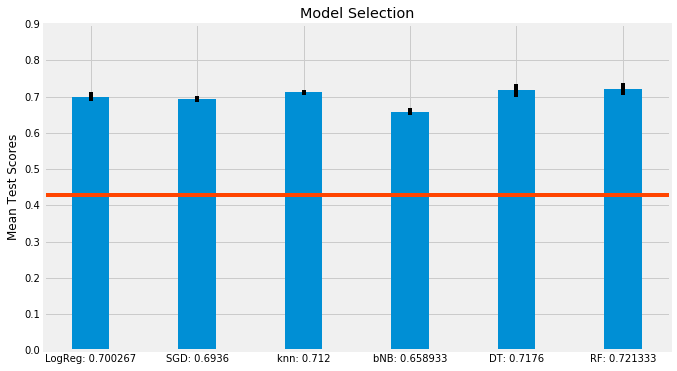
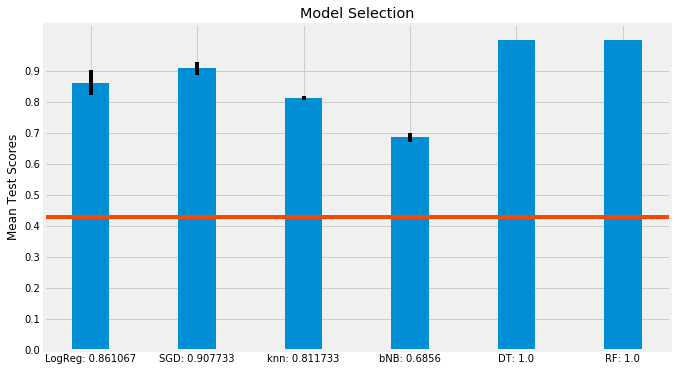
Complete first full draft of Reddit

diff --git a/_posts/2018-06-05-Reddit-Hot-Posts.md b/_posts/2018-06-05-Reddit-Hot-Posts.md
@@ -18,7 +18,7 @@ This was my first project wherein I had to gather my own data (as opposed to dow
 
 With any Reddit post, there are upwards of 85 identifying features, and while I did pull all 85 of those features for each of my 5,000 posts, I decided to limit the features that I built into my dataframe to those I thought would be most predictive of popularity.  I pared the 85 features down to 14 and stored them in variables.  The features I chose to use in my model were: 'author', 'title', 'subreddit', 'subreddit_subscribers', 'score', 'ups', 'downs', 'num_comments', 'num_crossposts', 'selftext', 'pinned', 'stickied', 'wls', 'created_utc.'  If a post had actual original text, it was stored in the 'selftext' feature, however, when I began to explore my dataset in more depth, I learned that many Reddit posts don't actually have original content, but rather, are links to a previous post.
 
-![heidi.jpg](/static/img/heidi.jpg)
+<!-- ![heidi.jpg](/static/img/heidi.jpg) -->
 
 With my dataframe finally built out, I was able to start exploring the posts I pulled.  My un-engineed dataset began with 5000 rows and 17 columns.  When I grouped by 'subreddit', I identified 1950 unique subreddits within my dataset.  While it would be too much to name every single subreddit in this blog post, a few of my favorites were: 'todayilearned', 'mildlyinteresting', and 'Showerthoughts.'
 
@@ -36,61 +36,15 @@ The comments column, however, was the column I was most interested in, since it 
 
 I then created a bag of words of all of the words from the 'Title' feature using a for-loop running across the rows in the 'Title feature'.  In total, there were 10,445 unique words not including common 'stop' words such as 'the', 'a', & 'and.'  I was able to exclude these common 'stop' words using the 'stop_words' arg in my CountVectorizer, specifying 'english' as my language.
 
-<!-- | Word | Count |
-|:--------|:-------:|
-| new     | 149   |
-|----
-| just    | 148   |
-|----
-| like    | 119   |
-|----
-| time    | 87    |
-|----
-|day      | 82
-|----
-| oc      | 72
-|----
-| people  | 70
-|----
-| today   | 70
-|----
-| don     | 69
-|----
-| years   | 69
-|----
-|got      | 69
-|----
-| post    | 61
-|----
-| happy   | 60
-|----
-| old     | 58
-|----
-| year    | 58
-|----
-| trump   | 57
-|----
-| best    | 57
-|----
-| little  | 56
-|----
-| ve      | 56
-|----
-| think   | 52
-|=====
-{: rules="groups"} -->
+After performing a train-test-split, I then vectorized the top 20 most common 'Title' words into a sparse dataframe, which I then concatenated onto my X_train and X_test matrices with the hope that more information would improve my model performance.  After standardizing my dataset with Standard Scaler, I was ready to run my models.
 
-I then took those top 20 words and dummified them into columns of their own in my dataframe in the hope that it would improve my model performance.  After standardizing my dataset with Standard Scaler and conducting a train-test split, I was ready to run some models.
-
-<!-- ![popular.gif](/static/img/popular.gif) -->
-
-I gridsearched over six different models, including a LogisticRegression, an SGDClassifier, a KNeighborsClassifier, a BernoulliNB, a DecisionTreeClassifier, and a RandomForestClassifier.  They all performed more or less the same, with R2 scores in the high .60s and low.  Among the six models, the Random Forest model performed the best.  While I had hoped that these training scores had been higher, all of the models I ran beat the baseline accuracy score of 0.42779.  I summarized the results of the models into a summary bar plot, with the bold lines at the top of each bar representing the standard deviation of each cross validation run.  The red horizontal line represents the baseline accuracy score.
+In total, I gridsearched over six different models, including a LogisticRegression, an SGDClassifier, a KNeighborsClassifier, a BernoulliNB, a DecisionTreeClassifier, and a RandomForestClassifier.  While I remain skeptical of the perfect test scores for the Decision Tree and Random Forest Classifiers, the R2 scores of the other four models seem to make sense.  I summarized the results of the models into a summary bar plot, with the bold lines at the top of each bar representing the mean standard deviation of the cross validation runs.  The red horizontal line represents the baseline accuracy score of 0.42779.
 
 ![reddit-models.png](/static/img/reddit-models.png)
 
-NOTE: Talk here about features/coeffs - what actually contributed the most to the prediction??
+Having fit and scored my models, I chose the Random Forest Classifier to run feature importances on to understand which of my 32 features were most predictive of 'hot' posts.  Unsurprisingly, 'num_comments' was the most predictive feature with a coefficient of 0.761.  The next most predictive columns did not have nearly the same predictive power as num_comments, with 'score', 'ups', and 'subreddit_subscribers' as the next most predictive with coefficients of 0.0863, 0.0725, and 0.0247, respectively.
 
-## Rumor has it
+## Gossip Folks
 
 With modeling done, I wanted to continue exploring the text in my posts to see what, if any, themes rose to the top.  Because I had already done a CountVectorizer on the titles of my posts, I wanted to try another natural language processing technique to help me better understand my data.  So, I subset my data to 'hot' posts only (posts with 16 or more comments) and ran a for-loop across those rows to create another bag of words - this time, filled with words that were linked to 'hot' posts.  I did the same thing again to my 'super hot' posts.  With these two bags of words, I then used a word cloud on the data set to visually inspect any themes.  The images below represent the results of this analysis.  Given that one of the most common words in the 'super hot' bag of words was 'need', I suspect that more than a few people on Reddit are giving some (unsolicited) advice.
 
@@ -98,12 +52,35 @@ With modeling done, I wanted to continue exploring the text in my posts to see w
 - | -
 ![hot-posts.png](/static/img/hot-posts.png) | ![super-hot.png](/static/img/super-hot.png)
 
-Talk here about creating a filter to identify the top 50 posts based on the number of comments.  Then used PRAW to pull the top comment for all 50 and ran sentiment analysis on each of the 50 comments.
+Having analyzed the text of the posts, I then wanted to further explore Reddit's data by pulling the comments associated with my top 50 most commented on posts.  First, I created a mask for which I sorted the value counts of the 'num_comments' feature with 'ascending' set to False.  I then sliced on the first fifty rows.
 
-Talk about using vader sentiment.
+With my top fifty most commented on posts in hand, I was ready to pull their associated comments.  Because this was my first time using PRAW, I had to sign up for a developer's account.  With this account, I was given a user-id, an API key and a secret key which allowed me to use PRAW.  
+
+I wanted to pull the associated top comments so I could run a sentiment analysis on the comment's text and see which posts received positive comments and which received negative comments.  To parse out sentiment, I installed nltk's [Vader Sentiment Analyzer](https://github.com/cjhutto/vaderSentiment) package.
+
+To calculate the 'sentiment intensity' of each comment, I ran a for-loop across each of my fifty rows and stored the scores in a list.  Vader produces four scores when performing its analysis: negative, neutral, positive, and compound.  The negative, positive, and neutral scores are all bound between 0 and 1, whereas the compound score is bound between -1 and 1, to effectively give an overall score.  To illustrate the range of scores my comments received, I plotted them out in Plotly.  The x axis represents the negative score, the y axis, the positive score, and the color shading represents the overall compound score - compound scores that were more positive were closer to the blue spectrum and compound scores that were overall more negative were hued closer to the red spectrum.  This explains why one of the data points is blue despite having greater than a 0 score on the negative x axis.
+
+<div>
+    <a href="https://plot.ly/~jesster413/875/?share_key=EhaoM19zpKFqUcZ1pguqhr" target="_blank" title="plot from API (15)" style="display: block; text-align: center;"><img src="https://plot.ly/~jesster413/875.png?share_key=EhaoM19zpKFqUcZ1pguqhr" alt="plot from API (15)" style="max-width: 100%;width: 600px;"  width="600" onerror="this.onerror=null;this.src='https://plot.ly/404.png';" /></a>
+    <script data-plotly="jesster413:875" sharekey-plotly="EhaoM19zpKFqUcZ1pguqhr" src="https://plot.ly/embed.js" async></script>
+</div>
+
+While I initially thought that having only positive comments was ideal for posts, after reading through some of the comments and their corresponding scores, I realized that everything but super negative scores is *usually* fine.  I then joined my compound_scores dataframe with my comments_scores dataframe to more easily visualize which scores lined up with which comments and sliced on individual subreddits to identify which categories would be the least inflammatory and best received for someone interested in pitching an article to Reddit.
+
+Finally, I wanted to try to create my own machine learning sentences using a Markov chain generator.  In another post, I walk through more in depth what Markov chain's are and how they work, but for this project, I installed the [markovify](https://pypi.org/project/markovify/) package from PyPi and applied it to my 'hot' bag of words.  Using a very simple for-loop and limiting my range to one sentence, I used the 'beginning' arg of the 'make_sentence_with_start function to create one-liner sentences starting with words I specified.  The following is the output of that code.
+
+```
+Women need to give me pity cash.
+
+I will be replaced, and unfortunately, i don't think Ameer will be stickying this for four days.
+
+I can't remember if it was pursuing me.  I glanced up at her, and five days after my hospitalization it started to happen.  I started working here almost two months ago.  We had talked on the couch, took off my sunglasses, and checked my phone.  Still no service.
+
+Why would someone do this?  There was just going to be literally upside down.
+```
+Again, these sentences were created from the corpus of 'hot' words I created from text in the posts I pulled from Reddit.
 
 
-Talk here about using Markov chain generator and wanting to create one-liners from the 'hot' bag of words.
 
 
-As always, head on over to the [GitHub Repo](https://github.com/jesster413/Reddit-NLP) to see all of the code associated with this project.
+If you'd like to see all of the code associated with this project, head on over to the corresponding [GitHub Repo.](https://github.com/jesster413/Reddit-NLP)

diff --git a/_posts/2018-05-21-Titanic-Survivability-Odds.md b/_posts/2018-05-21-Titanic-Survivability-Odds.md
@@ -15,9 +15,9 @@ While the infamous shipwreck happened over 100 years ago, its cultural significa
 
 For this project, I want to predict a passenger's fate using machine learning across several different types of models.  I am also interested in identifying which features had the greatest impact on a person's chances of survival.
 
-This dataset is neatly packaged in a csv file that can be downloaded [here](https://www.kaggle.com/c/titanic/data) from Kaggle.  Other projects are not as accessible, and I explore other methods of extracting data in other posts.  
+This dataset is neatly packaged in a csv file that can be downloaded from Kaggle's [Titanic competition](https://www.kaggle.com/c/titanic/data) page.  Other projects are not as accessible, and I explore other methods of extracting data in other posts.  
 
-After I downloaded the 'train' set, I read the data into my Jupyter Notebook to begin my analysis.  You can see all of the code I wrote for this project [here].
+After I downloaded the 'train' set, I read the data into my Jupyter Notebook to begin my analysis.  You can see all of the code associated with this project in the corresponding [GitHub repo](https://github.com/jesster413/Titanic-Survival-Predictions).
 
 ## "Remember, they love money, so pretend like you own a gold mine and you're in the club"
 

diff --git a/_posts/2018-04-23-Why-Data-Science.md b/_posts/2018-04-23-Why-Data-Science.md
@@ -1,0 +1,13 @@
+---
+layout: post
+title: Why Data Science?
+published: True
+image:
+
+---
+
+## Why Data Science
+
+## Why General Assembly?
+
+## Why Now?
